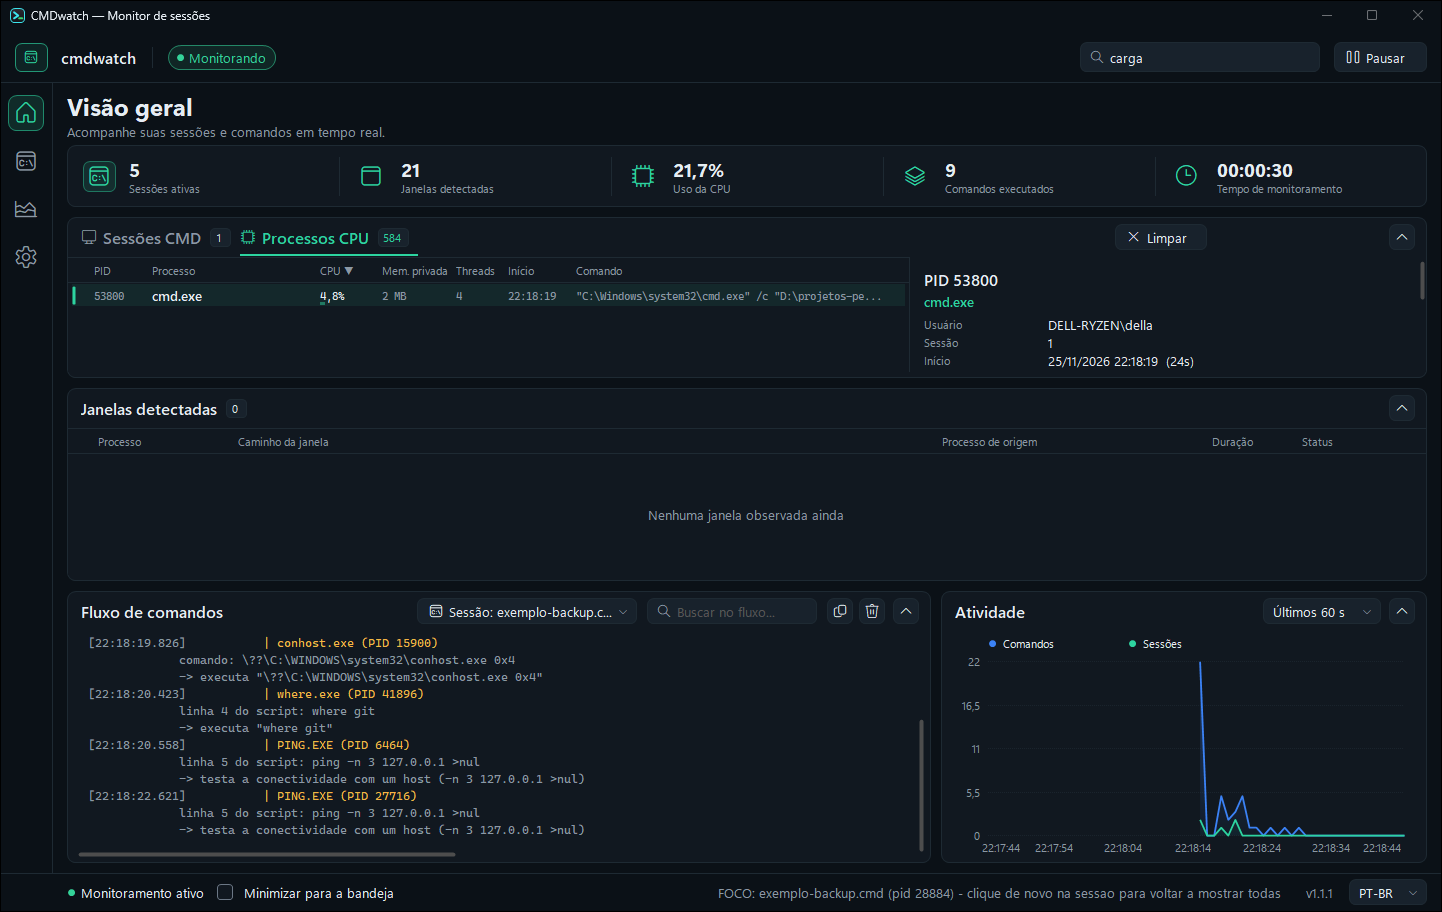
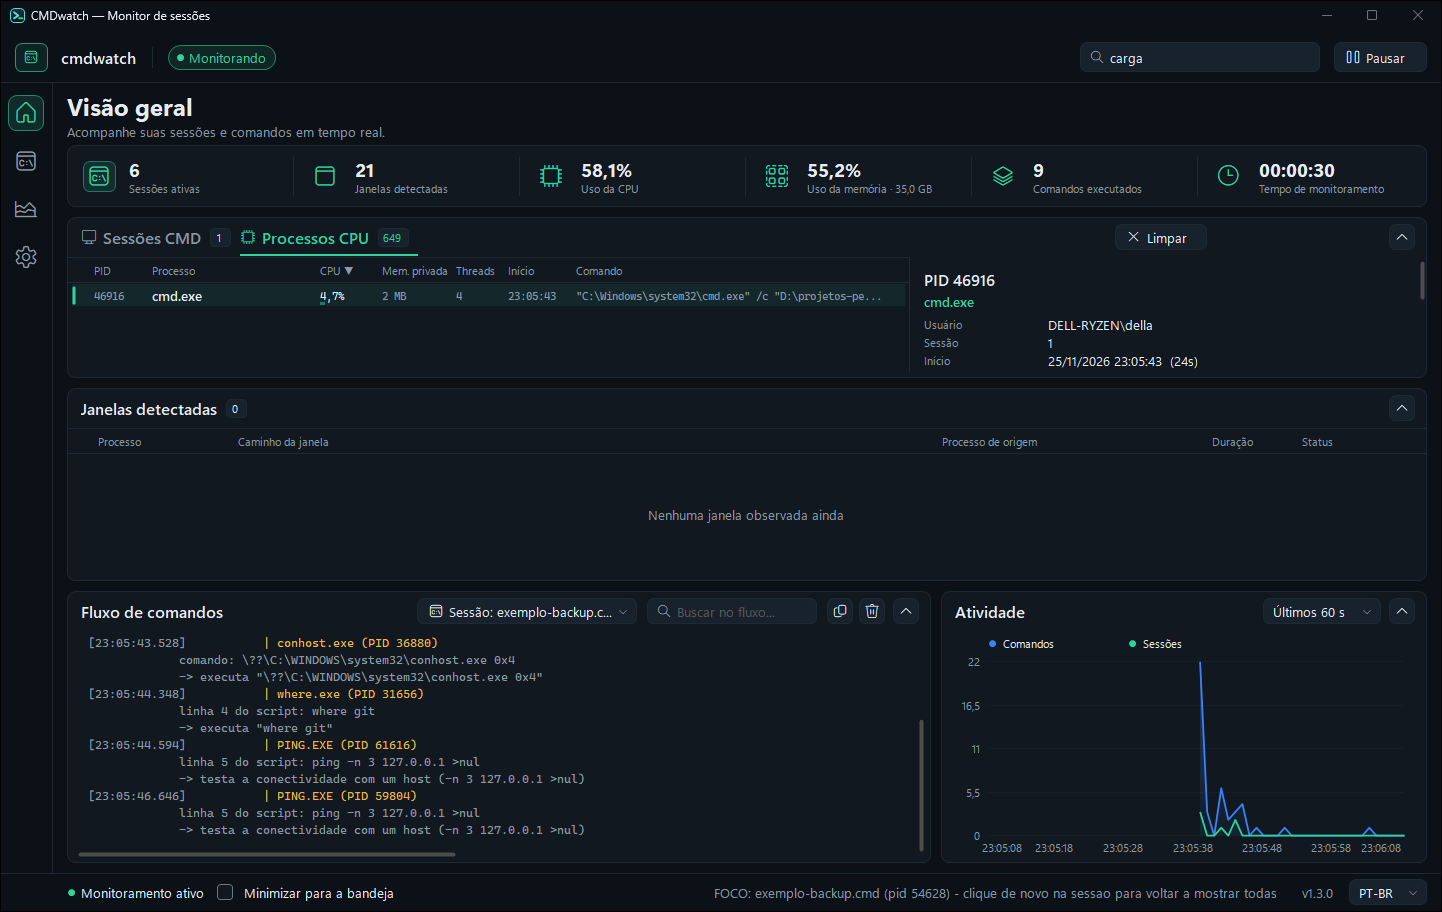
docs: relatorio de otimizacao da v1.3.0, ferramenta de medicao e READMEs atualizados
- docs/otimizacao-1.3.0.md: avaliacao de consumo com o antes e o depois medidos
  (tique do painel 0,20 ms -> 0,023 ms; varredura do kernel 10,5-13,4 ms; custo
  por operacao) e o registro do que foi avaliado e descartado, com o motivo.
- tools/medir-consumo.ps1: mede o consumo do app (CPU da maquina, working set,
  threads e handles) durante N segundos.
- READMEs pt-BR e en: 6o indicador de memoria, painel ajustavel por arraste,
  secao de desempenho com as medicoes e link de download da v1.3.0.
- Capturas de docs/ regeneradas com os 6 indicadores e o rodape v1.3.0.

diff --git a/README.pt-BR.md b/README.pt-BR.md
@@ -89,7 +89,7 @@ O **CMDWatcher** (`cmdwatch`) é um monitor leve e sem dependências para Window
 
 ## 🚀 Recursos Principais
 
-- 📦 **Executável Único & Portátil:** ~580 KB compilado em C# (.NET Framework 4.8 já embutido no Windows). Sem instalador, sem DLLs e sem runtime extra.
+- 📦 **Executável Único & Portátil:** ~605 KB compilado em C# (.NET Framework 4.8 já embutido no Windows). Sem instalador, sem DLLs e sem runtime extra.
 - 🛡 **Zero Elevação Obrigatória:** Lê processos e linhas de comando diretamente do PEB (`NtQueryInformationProcess`) sem requerer privilégios de Administrador.
 - 🔍 **Descoberta do Autor do Console (ConPTY / Cascadia):** No Windows Terminal, associa automaticamente as janelas `CASCADIA_HOSTING_WINDOW_CLASS` à sua respectiva `PseudoConsoleWindow`, identificando o processo autor de verdade em vez do hospedeiro da UI.
 - ⚡ **Motor Duplo (Polling & ETW Kernel):**
@@ -98,6 +98,7 @@ O **CMDWatcher** (`cmdwatch`) é um monitor leve e sem dependências para Window
 - 🔒 **Máscara Automática de Segredos:** Sanitiza tokens, senhas, chaves de API, cabeçalhos `Bearer` e credenciais AWS antes de gravar em disco ou renderizar na tela.
 - 🛑 **Encerramento Seguro contra Colisão de PID:** Permite encerrar scripts e árvores de processos pela UI com verificação rigorosa de data/hora de criação do PID (`GetProcessTimes`), impedindo matar processos reciclados.
 - 🖥 **Inspetor de CPU e Processos ao Vivo:** uma segunda aba dentro do cartão de sessões lista todos os processos da máquina com consumo de CPU, memória privada, threads e hora de início, ao lado de um painel de detalhe com dono, sessão, linha de comando e cadeia de ancestrais. Os números saem do retrato do kernel, sem custo extra de leitura.
+- 📐 **Painel ajustável:** as colunas das tabelas (nas duas abas) e a divisória entre a lista e o detalhe podem ser redimensionadas arrastando com o mouse.
 - 🎨 **Interface Neon Customizada:** Construída em GDI+ puro sem frameworks pesados, com suporte a tema escuro/claro, busca em tempo real, ordenação de colunas e minimização para a Área de Notificação (Tray).
 
 ---
@@ -156,7 +157,7 @@ flowchart TD
 
 Baixe o executável pronto para uso:
 
-**[⬇ Baixar cmdwatch v1.2.0 — cmdwatch.exe](https://github.com/dellanio/cmdwatch/releases/latest/download/cmdwatch.exe)**
+**[⬇ Baixar cmdwatch v1.3.0 — cmdwatch.exe](https://github.com/dellanio/cmdwatch/releases/latest/download/cmdwatch.exe)**
 
 ### Abrir o Painel Gráfico
 Dê **duplo clique** no `cmdwatch.exe` ou execute via terminal:
@@ -208,7 +209,8 @@ cmdwatch.exe trace script.cmd
 
 O cartão **Sessões CMD** virou um cartão com duas abas: **Sessões CMD** (o comportamento de sempre) e
 **Processos CPU**, que mostra a fotografia viva da máquina. Na barra de indicadores aparece um quinto
-card, **Uso da CPU**, com o total da máquina em tempo real.
+card, **Uso da CPU**, com o total da máquina em tempo real, e um sexto, **Uso da memória**, com o
+consumo físico em tempo real.
 
 ![Aba Processos CPU](docs/processos-cpu.png)
 
@@ -232,6 +234,13 @@ o **início** e há quanto tempo está vivo, a **CPU instantânea e a média** d
 **memória** e os **threads**, o **executável**, a **linha de comando** quebrada em várias linhas e a
 **cadeia de ancestrais** (quem chamou quem).
 
+### Redimensionável: arraste para ajustar
+
+- **Nas duas abas**, a borda entre as colunas do cabeçalho pode ser arrastada: o cursor vira
+  seta dupla, a coluna em uso cede ou toma espaço e a coluna flexível absorve a diferença.
+- **Na aba "Processos CPU"**, a divisória entre a lista (esquerda) e o detalhe (direita) também
+  é arrastável: o detalhe ganha ou perde largura conforme você puxa.
+
 ### Como os números são calculados
 
 O retrato do kernel (`NtQuerySystemInformation`) já devolve, no mesmo buffer e **sem custo extra de
@@ -251,6 +260,33 @@ motor de eventos) e a diferença do tempo de CPU vira o percentual:
 - **Diretório de trabalho e variáveis de ambiente não são lidos**: exigem `PROCESS_VM_READ` e falham em processo elevado.
 - **Usuário e integridade** vêm do token do processo, lidos uma vez por processo (o token não muda enquanto ele viver); processos protegidos podem não responder.
 - A lista mostra **todos** os processos da máquina (mais de 500 em uso comum); o custo do retrato é de poucos milissegundos.
+
+---
+
+## ⚡ Desempenho e consumo (v1.3.0)
+
+O cmdwatch é medido, não otimizado no escuro. A avaliação completa — com o antes, o depois e o
+motivo de cada mudança — está em [`docs/otimizacao-1.3.0.md`](docs/otimizacao-1.3.0.md).
+
+| Medição | Antes (v1.2.0) | Depois (v1.3.0) |
+|---|---|---|
+| Tique completo do painel (aba de CPU fechada) | ~0,20 ms | **0,023 ms** (−84%) |
+| Leitura da linha de comando dos 40 processos do topo | 2 leituras por amostra | 1 leitura por processo, com cache por PID + hora de início |
+| Remontagem da lista de CPU | a cada tique | só quando o retrato ou o filtro mudam, e só com a aba aberta |
+| Máscara de segredos | a cada repaint da tabela | 1 vez por amostra |
+| Painel na bandeja | timers e amostrador rodando | timers e amostrador **parados** (o motor e o log seguem gravando) |
+| Consumo do app com GUI visível | 0,60% da máquina | dentro do ruído de ±0,2% — o ganho real está no trabalho por tique |
+| Working set | ~59–64 MB | ~60 MB |
+
+O maior custo continua sendo a **varredura do kernel** (10,5–13,4 ms por chamada): é o preço de
+detectar o início e o fim dos processos. O que a v1.3.0 reduziu foi quantas vezes ela é paga em
+paralelo.
+
+Para medir de novo:
+
+```powershell
+powershell -File .\tools\medir-consumo.ps1 -Exe .\out\cmdwatch.exe -Segundos 60
+```
 
 ---
 

diff --git a/README.md b/README.md
@@ -89,7 +89,7 @@ With the widespread adoption of **autonomous AI agents, background automation sc
 
 ## 🚀 Key Features
 
-- 📦 **Single Portable Executable:** ~580 KB compiled with C# (.NET Framework 4.8, already pre-installed on Windows). Zero installer, zero external DLLs.
+- 📦 **Single Portable Executable:** ~605 KB compiled with C# (.NET Framework 4.8, already pre-installed on Windows). Zero installer, zero external DLLs.
 - 🛡 **No Administrator Rights Required:** Inspects processes, parameters, and PEB memory (`NtQueryInformationProcess`) without requiring elevation.
 - 🔍 **Accurate Console Author Resolution (ConPTY / Cascadia):** In Windows Terminal, seamlessly correlates `CASCADIA_HOSTING_WINDOW_CLASS` host windows with their underlying `PseudoConsoleWindow`, identifying the real author rather than `WindowsTerminal.exe`.
 - ⚡ **Dual Capture Engines (Polling & Kernel ETW):**
@@ -98,6 +98,7 @@ With the widespread adoption of **autonomous AI agents, background automation sc
 - 🔒 **Active Secret Masking:** Automatically redacts tokens, passwords, API keys, `Authorization: Bearer` headers, and AWS credentials before saving to logs or rendering on screen.
 - 🛑 **Safe Process Tree Termination (PID Reuse Guard):** Safely terminates runaway scripts and child process trees directly from the UI, with strict creation timestamp verification (`GetProcessTimes`) preventing accidental termination of recycled PIDs.
 - 🖥 **Live CPU & Process Inspector:** a second tab inside the sessions card lists every process on the machine with its CPU share, private memory, thread count and start time, next to a detail pane with the owner, session, command line and ancestry chain. The numbers come from the kernel snapshot, at no extra read cost.
+- 📐 **Adjustable panel:** the table columns (in both tabs) and the divider between the list and the detail can be resized by dragging with the mouse.
 - 🎨 **Custom Neon UI:** Lightweight GDI+ rendering with Dark and Light themes, real-time search, sortable columns, and background minimization to the Windows System Tray.
 
 ---
@@ -156,7 +157,7 @@ flowchart TD
 
 Download the pre-compiled binary:
 
-**[⬇ Download cmdwatch v1.2.0 — cmdwatch.exe](https://github.com/dellanio/cmdwatch/releases/latest/download/cmdwatch.exe)**
+**[⬇ Download cmdwatch v1.3.0 — cmdwatch.exe](https://github.com/dellanio/cmdwatch/releases/latest/download/cmdwatch.exe)**
 
 ### Launching the Graphical Dashboard
 Simply **double-click** `cmdwatch.exe` or execute from any terminal:
@@ -208,7 +209,8 @@ cmdwatch.exe trace script.cmd
 
 The **CMD Sessions** card became a two-tab card: **CMD Sessions** (unchanged behavior) and
 **CPU Processes**, which shows a live picture of the machine. The KPI strip gains a fifth card,
-**CPU usage**, with the machine-wide total in real time.
+**CPU usage**, with the machine-wide total in real time, and a sixth one, **Memory usage**, with
+the physical memory in use in real time.
 
 ![CPU Processes tab](docs/processos-cpu.png)
 
@@ -232,6 +234,13 @@ pill when the process runs with high integrity, the **user** who owns it, the **
 **threads**, the **executable**, the **command line** wrapped over several lines, and the
 **ancestry chain** (who called whom).
 
+### Resizable: drag to adjust
+
+- **In both tabs**, the border between the header columns can be dragged: the cursor turns into
+  a double arrow, the column gains or gives up space and the flexible column absorbs the difference.
+- **In the "CPU Processes" tab**, the divider between the list (left) and the detail (right) is
+  draggable too: the detail gains or loses width as you pull.
+
 ### How the numbers are computed
 
 The kernel snapshot (`NtQuerySystemInformation`) already returns, in the same buffer and at **no
@@ -251,6 +260,34 @@ disturb the event engine) and turns the difference in CPU time into a percentage
 - **Working directory and environment variables are not read**: they require `PROCESS_VM_READ` and fail on elevated processes.
 - **User and integrity level** come from the process token, read once per process (the token does not change while it lives); protected processes may not answer.
 - The list shows **every** process on the machine (500+ in normal use); the snapshot costs a few milliseconds.
+
+---
+
+## ⚡ Performance and footprint (v1.3.0)
+
+The cmdwatch is measured, not optimized in the dark. The full evaluation — with the before, the
+after and the reason behind each change — lives in
+[`docs/otimizacao-1.3.0.md`](docs/otimizacao-1.3.0.md).
+
+| Measurement | Before (v1.2.0) | After (v1.3.0) |
+|---|---|---|
+| Full panel tick (CPU tab closed) | ~0,20 ms | **0,023 ms** (−84%) |
+| Command-line read of the top 40 processes | 2 reads per sample | 1 read per process, cached by PID + start time |
+| CPU list rebuild | every tick | only when the snapshot or the filter changes, and only while the tab is open |
+| Secret masking | on every table repaint | once per sample |
+| Panel in the tray | timers and sampler running | timers and sampler **stopped** (the engine and the log keep running) |
+| App footprint with the GUI visible | 0.60% of the machine | within the ±0.2% noise — the real gain is in the per-tick work |
+| Working set | ~59–64 MB | ~60 MB |
+
+The biggest cost is still the **kernel snapshot** (10.5–13.4 ms per call): that is the price of
+detecting when processes start and end. What v1.3.0 reduced was how many times it gets paid in
+parallel.
+
+To measure it again:
+
+```powershell
+powershell -File .\tools\medir-consumo.ps1 -Exe .\out\cmdwatch.exe -Segundos 60
+```
 
 ---
 

diff --git a/docs/otimizacao-1.3.0.md b/docs/otimizacao-1.3.0.md
@@ -1,0 +1,73 @@
+# Otimização de consumo — medição antes/depois
+
+Este documento registra a avaliação de consumo de recursos do cmdwatch feita em
+25/11/2026, na máquina de teste (16 núcleos lógicos, 648 processos no retrato do
+kernel). **Nenhum número aqui é estimativa**: todos saíram de execução do
+binário ou de medição interna do próprio app.
+
+## 1. Linha de base (v1.2.0, painel aberto, ocioso)
+
+| Cenário | Medido |
+|---|---|
+| App completo, GUI visível | **0,60%** da máquina (média de 60 s, amostras de 5 s) |
+| Motor sozinho, sem GUI (`cmdwatch monitor`) | **0,49%** da máquina |
+| Working set / memória privada | ~59–64 MB / ~40–44 MB |
+| Threads / handles | 12–14 / ~330–354 |
+
+Ou seja: **a interface responde por ~0,11% e o motor por ~0,49%**. A caça à
+otimização tinha de ser feita no motor, não no desenho.
+
+## 2. Onde o custo está (medido, não estimado)
+
+| Operação | Custo medido | Frequência | Peso |
+|---|---|---|---|
+| Varredura do kernel (`NtQuerySystemInformation`) | **10,5–13,4 ms** por chamada (648 processos) | 2/s (motor ocioso) | ~21–27 ms/s = **2,1–2,7% de um núcleo** |
+| Varredura do kernel extra do amostrador de CPU | 10,5–13,4 ms | 0,67/s | ~7 ms/s = **0,7% de um núcleo** |
+| Leitura da linha de comando (PEB) dos 40 do topo | ~7 ms por amostra | 1/1,5 s | ~4,7 ms/s |
+| Remontar a lista de CPU (ordenar 560 linhas + dicionário) | **0,179 ms** | 1/s | 0,18 ms/s |
+| Tique completo do painel (aba de CPU fechada) | **0,023 ms** (era ~0,20 ms) | 1/s | — |
+| Costura de threads de janelas (acorda 10x/s) | ~50 µs por wake | 10/s | ~0,5 ms/s (irrelevante) |
+
+## 3. O que mudou
+
+| Mudança | Ganho medido | Risco |
+|---|---|---|
+| A lista de CPU só é remontada quando o **retrato** ou o **filtro** mudam — e só quando a aba está aberta | tique do painel caiu de ~0,20 ms para **0,023 ms** (−84%) | baixo |
+| A linha de comando é lida **uma vez por processo** (cache por PID + hora de início) em vez de duas leituras a cada amostra | ~7 ms por amostra deixam de ser pagas (≈4,7 ms/s) | baixo |
+| A máscara de segredos é aplicada **uma vez por amostra**, e não a cada repaint da tabela | 6 passes de regex × linhas visíveis → 1 por amostra | baixo |
+| Ao mandar para a bandeja, os **timers e o amostrador param**; ao restaurar, voltam | todo o trabalho de painel + a varredura do kernel do amostrador (≈7 ms/s) saem da conta | baixo (o motor continua monitorando e o log continua sendo escrito) |
+| As posições x das colunas são **cacheadas** por largura | 2 `int[]` por paint → 0 | baixo |
+| O bitmap de fundo do cartão é **liberado** no `Dispose` | ~10–20 MB de GDI+ no fim do processo | baixo |
+| A memória da máquina (`GlobalMemoryStatusEx`) alimenta o novo indicador | 1 chamada de sistema por segundo, sem custo mensurável | baixo |
+
+## 4. O que foi avaliado e **descartado** (com o motivo)
+
+| Ideia | Por que não foi feita |
+|---|---|
+| Subir o timeout da thread de janelas de 100 ms para 500 ms | o wake custa ~50 µs → ~0,5 ms/s. Ganho invisível, e piora a latência da varredura de segurança |
+| Partilhar o retrato do motor com o amostrador de CPU | no modo **ETW** o motor não faz polling: a aba de CPU ficaria sem dados. Risco de functionality > ganho de ~7 ms/s |
+| Baixar o intervalo do motor (500 ms → 1 s) | é o que permite não perder `.cmd` curtos. Não se mexe |
+| Cachear brushes/pens por cor no GDI+ | o churn é limitado (objetos descartados) e o ganho seria pequeno frente ao risco |
+| Reduzir o polling adaptativo em atividade (50 ms) | é o custo de não perder script ultr curto |
+
+## 5. O que continua sendo o maior custo
+
+A varredura do kernel (10,5–13,4 ms) é **inevitável** para detectar o início e o
+fim de processos: é o preço da funcionalidade. O que dá para reduzir — e foi
+reduzido — é quantas vezes ela é paga em paralelo (o amostrador tirava o seu
+próprio retrato).
+
+O resto do custo do motor (~0,3% da máquina) está no observador de janelas e no
+tratamento de eventos; medir a fatia exata de cada um exigiria instrumentar o
+motor, e a diferença entre "com janelas" e "sem janelas" ficou **dentro do ruído**
+da máquina (±0,2%).
+
+## 6. Como medir de novo
+
+```powershell
+# consumo do app completo (GUI ociosa)
+powershell -File .\tools\medir-consumo.ps1 -Exe .\out\cmdwatch.exe -Segundos 60
+
+# custo de uma varredura do kernel (a operação que domina o motor)
+.\.build\probe\ProbeKernel.exe
+```
